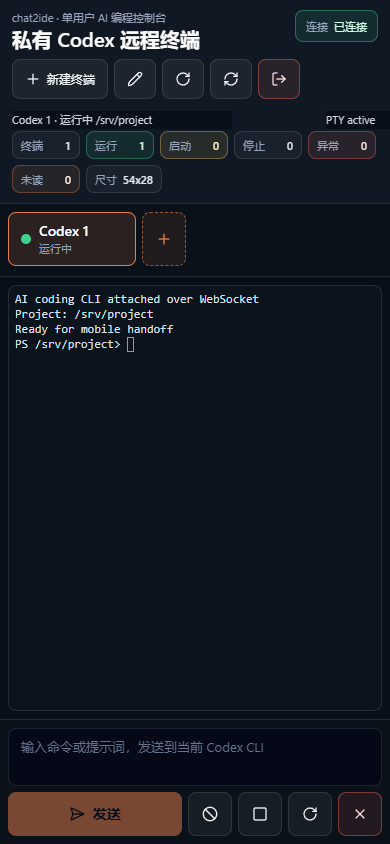
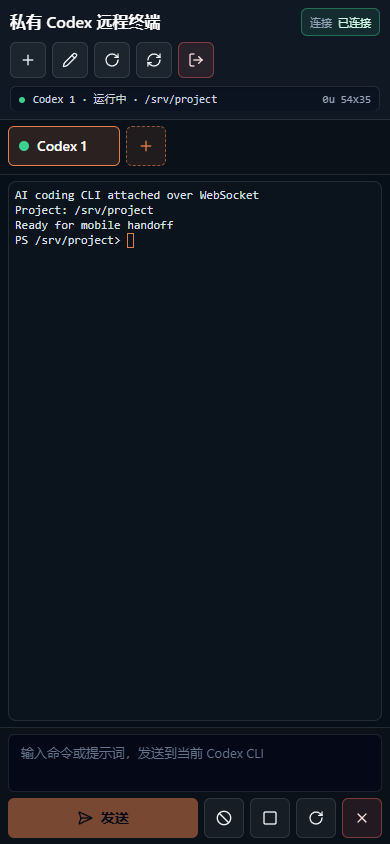
Simplify mobile UI and platform support docs

diff --git a/web/src/App.tsx b/web/src/App.tsx
@@ -526,14 +526,14 @@ export default function App() {
 
   return (
     <main className="app-shell flex h-[100dvh] flex-col overflow-hidden bg-[#071019] text-ink">
-      <header className="shrink-0 border-b border-white/10 bg-panel/95 px-3 py-2.5 backdrop-blur sm:px-4 sm:py-3">
-        <div className="flex flex-col gap-2 sm:gap-3">
-          <div className="flex items-start gap-2">
+      <header className="shrink-0 border-b border-white/10 bg-panel/95 px-2.5 py-2 backdrop-blur sm:px-4 sm:py-3">
+        <div className="flex flex-col gap-1.5 sm:gap-3">
+          <div className="flex items-center gap-2">
             <div className="min-w-0 flex-1">
-              <p className="text-[11px] leading-4 text-slate-400 sm:text-xs">
+              <p className="hidden text-[11px] leading-4 text-slate-400 sm:block sm:text-xs">
                 chat2ide · 单用户 AI 编程控制台
               </p>
-              <h1 className="truncate text-xl font-semibold leading-tight text-white sm:text-2xl">
+              <h1 className="truncate text-base font-semibold leading-tight text-white sm:text-2xl">
                 私有 Codex 远程终端
               </h1>
             </div>
@@ -578,6 +578,7 @@ export default function App() {
               icon={Plus}
               label="新建终端"
               disabled={busyAction}
+              hideLabelOnMobile
               onClick={handleCreateTerminal}
             />
             <ToolbarButton
@@ -611,7 +612,13 @@ export default function App() {
             />
           </div>
 
-          <div className="flex flex-col gap-1.5 lg:flex-row lg:items-center lg:justify-between">
+          <MobileSessionLine
+            activeTerminal={activeTerminal}
+            stats={terminalStats}
+            connectionState={connectionState}
+          />
+
+          <div className="hidden flex-col gap-1.5 sm:flex lg:flex-row lg:items-center lg:justify-between">
             <div className="flex min-w-0 items-center gap-2 text-[11px] leading-4 text-slate-400 sm:text-xs lg:flex-1">
               {activeTerminal ? (
                 <span className="shrink-0 text-slate-300 sm:hidden">
@@ -645,7 +652,7 @@ export default function App() {
         onSelect={handleSelectTerminal}
       />
 
-      <section className="flex min-h-0 flex-1 flex-col px-2 py-2 sm:px-3">
+      <section className="flex min-h-0 flex-1 flex-col px-2 py-1.5 sm:px-3 sm:py-2">
         <div className="flex min-h-0 flex-1 flex-col">
           {terminals.length === 0 ? (
             <div className="flex flex-1 items-center justify-center rounded-lg border border-dashed border-white/10 bg-[#0b131d] px-6 text-center text-sm leading-6 text-slate-400">
@@ -707,7 +714,7 @@ function StatusChip({
 
   return (
     <div
-      className={`inline-flex min-h-8 items-center gap-1.5 rounded-lg border px-2.5 py-1.5 text-[11px] leading-none ${toneClass}`}
+      className={`inline-flex min-h-7 items-center gap-1.5 rounded-md border px-2 py-1 text-[11px] leading-none sm:min-h-8 sm:rounded-lg sm:px-2.5 sm:py-1.5 ${toneClass}`}
     >
       <span className="text-slate-400">{label}</span>
       <span className="font-medium">{value}</span>
@@ -738,7 +745,7 @@ function ToolbarButton({
   return (
     <button
       aria-label={label}
-      className={`inline-flex min-h-10 shrink-0 items-center justify-center gap-1.5 rounded-lg border px-3 text-xs font-medium transition disabled:cursor-not-allowed disabled:opacity-50 sm:px-4 sm:text-sm ${toneClass}`}
+      className={`inline-flex min-h-9 min-w-9 shrink-0 items-center justify-center gap-1.5 rounded-md border px-2 text-xs font-medium transition disabled:cursor-not-allowed disabled:opacity-50 sm:min-h-10 sm:rounded-lg sm:px-4 sm:text-sm ${toneClass}`}
       disabled={disabled}
       title={label}
       type="button"
@@ -747,6 +754,41 @@ function ToolbarButton({
       <Icon aria-hidden className="h-4 w-4" />
       <span className={hideLabelOnMobile ? 'hidden sm:inline' : ''}>{label}</span>
     </button>
+  );
+}
+
+function MobileSessionLine({
+  activeTerminal,
+  connectionState,
+  stats,
+}: {
+  activeTerminal: TerminalSummary | null;
+  connectionState: string;
+  stats: TerminalWorkbenchStats;
+}) {
+  const stateDotClass =
+    connectionState === 'connected'
+      ? 'bg-success'
+      : connectionState === 'connecting'
+      ? 'bg-warning'
+      : connectionState === 'auth_error'
+      ? 'bg-danger'
+      : 'bg-slate-500';
+  const size = activeTerminal ? `${activeTerminal.cols}x${activeTerminal.rows}` : '-';
+
+  return (
+    <div className="flex min-w-0 items-center gap-2 rounded-md border border-white/10 bg-slate-950/45 px-2 py-1.5 font-mono text-[11px] leading-none text-slate-300 sm:hidden">
+      <span className={`h-1.5 w-1.5 shrink-0 rounded-full ${stateDotClass}`} />
+      <span className="min-w-0 flex-1 truncate">
+        {activeTerminal
+          ? `${activeTerminal.name} · ${formatTerminalStatus(activeTerminal.status)} · ${activeTerminal.cwd}`
+          : 'no terminal selected'}
+      </span>
+      <span className="shrink-0 tabular-nums">
+        {formatCompactCount(stats.unread)}u
+      </span>
+      <span className="shrink-0 text-slate-500">{size}</span>
+    </div>
   );
 }
 

diff --git a/web/src/components/ComposerBar.tsx b/web/src/components/ComposerBar.tsx
@@ -66,15 +66,15 @@ export function ComposerBar({
   };
 
   return (
-    <div className="border-t border-white/10 bg-panelAlt/95 px-2 pt-2 pb-[calc(0.5rem+env(safe-area-inset-bottom))] backdrop-blur sm:px-3">
+    <div className="border-t border-white/10 bg-panelAlt/95 px-2 pt-1.5 pb-[calc(0.375rem+env(safe-area-inset-bottom))] backdrop-blur sm:px-3 sm:pt-2 sm:pb-[calc(0.5rem+env(safe-area-inset-bottom))]">
       <form
-        className="grid grid-cols-[minmax(0,1fr)_repeat(4,2.75rem)] gap-1.5 md:grid-cols-[minmax(0,1fr)_8rem_repeat(4,6.5rem)] md:items-stretch md:gap-2"
+        className="grid grid-cols-[minmax(0,1fr)_repeat(4,2.5rem)] gap-1.5 md:grid-cols-[minmax(0,1fr)_8rem_repeat(4,6.5rem)] md:items-stretch md:gap-2"
         onSubmit={handleSubmit}
       >
         <textarea
           autoCapitalize="none"
           autoCorrect="off"
-          className="col-span-5 min-h-[3rem] max-h-[24dvh] w-full resize-none rounded-lg border border-white/10 bg-slate-950/80 px-3 py-2 text-[13px] leading-5 text-slate-100 outline-none transition placeholder:text-slate-500 focus:border-accent focus:ring-2 focus:ring-accent/30 disabled:opacity-50 md:col-span-1 md:min-h-12 md:px-4 md:py-3 md:text-sm md:leading-5"
+          className="col-span-5 min-h-10 max-h-[22dvh] w-full resize-none rounded-md border border-white/10 bg-slate-950/80 px-3 py-2 text-[13px] leading-5 text-slate-100 outline-none transition placeholder:text-slate-500 focus:border-accent focus:ring-2 focus:ring-accent/25 disabled:opacity-50 md:col-span-1 md:min-h-12 md:rounded-lg md:px-4 md:py-3 md:text-sm md:leading-5"
           disabled={!activeTerminal || busy}
           enterKeyHint="send"
           placeholder={
@@ -91,7 +91,7 @@ export function ComposerBar({
         />
 
         <button
-          className="inline-flex min-h-11 items-center justify-center gap-2 rounded-lg bg-accent px-3 text-sm font-semibold text-slate-950 transition disabled:cursor-not-allowed disabled:opacity-50 md:min-h-12 md:px-4"
+          className="inline-flex min-h-10 items-center justify-center gap-2 rounded-md bg-accent px-3 text-sm font-semibold text-slate-950 transition disabled:cursor-not-allowed disabled:opacity-50 md:min-h-12 md:rounded-lg md:px-4"
           disabled={!inputReady || !value.trim()}
           type="submit"
         >
@@ -149,7 +149,7 @@ function ControlButton({
   return (
     <button
       aria-label={label}
-      className={`inline-flex min-h-11 items-center justify-center rounded-lg border text-xs font-medium transition disabled:cursor-not-allowed disabled:opacity-50 md:min-h-12 md:gap-1.5 md:px-4 md:text-sm ${toneClass}`}
+      className={`inline-flex min-h-10 items-center justify-center rounded-md border text-xs font-medium transition disabled:cursor-not-allowed disabled:opacity-50 md:min-h-12 md:rounded-lg md:gap-1.5 md:px-4 md:text-sm ${toneClass}`}
       disabled={disabled}
       title={label}
       type="button"

diff --git a/web/src/components/TerminalTabs.tsx b/web/src/components/TerminalTabs.tsx
@@ -19,7 +19,7 @@ export function TerminalTabs({
   onSelect,
 }: TerminalTabsProps) {
   return (
-    <div className="shrink-0 border-b border-white/10 bg-panelAlt/80 px-2 py-2 sm:px-3">
+    <div className="shrink-0 border-b border-white/10 bg-panelAlt/80 px-2 py-1.5 sm:px-3 sm:py-2">
       <div className="flex gap-1.5 overflow-x-auto pb-0.5 [scrollbar-width:none] [-ms-overflow-style:none] sm:gap-2 sm:pb-1">
         {terminals.map((terminal) => {
           const active = terminal.id === activeTerminalId;
@@ -27,7 +27,7 @@ export function TerminalTabs({
             <button
               aria-selected={active}
               key={terminal.id}
-              className={`flex min-w-[8rem] max-w-[10.5rem] shrink-0 items-center gap-2 rounded-lg border px-3 py-2 text-left transition sm:min-w-[10rem] sm:gap-3 sm:px-4 ${
+              className={`flex min-h-10 min-w-[7rem] max-w-[9rem] shrink-0 items-center gap-2 rounded-md border px-2.5 py-1.5 text-left transition sm:min-h-12 sm:min-w-[10rem] sm:max-w-[10.5rem] sm:gap-3 sm:rounded-lg sm:px-4 sm:py-2 ${
                 active
                   ? 'border-accent bg-accent/15 text-white'
                   : 'border-white/10 bg-white/5 text-slate-300'
@@ -50,7 +50,7 @@ export function TerminalTabs({
                 <span className="block truncate text-sm font-medium sm:text-base">
                   {terminal.name}
                 </span>
-                <span className="block truncate text-[11px] leading-4 text-slate-400 sm:text-xs">
+                <span className="hidden truncate text-[11px] leading-4 text-slate-400 sm:block sm:text-xs">
                   {formatTerminalStatus(terminal.status)}
                 </span>
               </span>
@@ -65,7 +65,7 @@ export function TerminalTabs({
 
         <button
           aria-label="新建终端"
-          className="inline-flex min-w-11 shrink-0 items-center justify-center gap-1.5 rounded-lg border border-dashed border-accent/60 bg-accent/10 px-3 py-2 text-sm font-semibold text-accent transition hover:bg-accent/20 sm:px-4"
+          className="inline-flex min-h-10 min-w-10 shrink-0 items-center justify-center gap-1.5 rounded-md border border-dashed border-accent/60 bg-accent/10 px-2.5 py-1.5 text-sm font-semibold text-accent transition hover:bg-accent/20 sm:min-h-12 sm:min-w-11 sm:rounded-lg sm:px-4 sm:py-2"
           type="button"
           onClick={onCreate}
         >

diff --git a/README.en.md b/README.en.md
@@ -45,9 +45,12 @@ The default command is `codex`. To use Claude Code, Gemini CLI, Aider, or a cust
 | Platform | Direct `CODEX_COMMAND` target? | Recommended setup | Boundary |
 | --- | --- | --- | --- |
 | Codex CLI | Yes | `CODEX_COMMAND=codex` | Default target. Authenticate Codex on the server first. |
+| Claude Code | Yes | `CODEX_COMMAND=claude` | Install and sign in on the server first. |
+| Gemini CLI | Yes | `CODEX_COMMAND=gemini` | Install and sign in on the server first. |
 | Cursor Agent CLI | Yes | `CODEX_COMMAND=cursor-agent` | Uses Cursor's terminal agent. This does not control the Cursor editor GUI. |
 | Qoder CLI | Yes | `CODEX_COMMAND=qodercli` | Install and sign in to `qodercli` on the server. If you meant another `qcoder` tool, it works only if it is a terminal CLI. |
 | Trae Agent CLI | Yes, for open-source `trae-agent` | Run `trae-cli run "<task>"` inside a chat2ide shell, or wrap it as `CODEX_COMMAND` | Trae IDE is a GUI editor; use the CLI agent for PTY control. |
+| Aider / Goose / custom agents | Yes | Set `CODEX_COMMAND` to the binary or wrapper script | Works when the tool behaves like a terminal program. |
 | Windsurf | Not recommended as a direct PTY agent | Use Cascade inside Windsurf IDE; use chat2ide beside it for mobile shell, tests, git, and other CLI agents | Windsurf's core AI workflow is IDE-integrated, not a generic standalone PTY agent. |
 | Trae IDE | No GUI control | Use Trae IDE normally; use `trae-agent` or another terminal agent when mobile handoff is needed | `chat2ide` is not remote desktop and does not control IDE plugin state. |
 | GUI editors such as Cursor, Windsurf, Trae | Indirect pairing | Point the editor and `chat2ide` at the same machine, repo, git state, and test commands | Editor handles desktop interaction; `chat2ide` handles terminal streams. |
@@ -69,6 +72,20 @@ CODEX_CWD=/srv/your-project
 ```
 
 ```dotenv
+# Claude Code
+CODEX_COMMAND=claude
+CODEX_ARGS=[]
+CODEX_CWD=/srv/your-project
+```
+
+```dotenv
+# Gemini CLI
+CODEX_COMMAND=gemini
+CODEX_ARGS=[]
+CODEX_CWD=/srv/your-project
+```
+
+```dotenv
 # Qoder CLI
 CODEX_COMMAND=qodercli
 CODEX_ARGS=[]
@@ -83,12 +100,6 @@ CODEX_CWD=/srv/your-project
 ```
 
 If a platform only exposes a desktop GUI, browser workspace, or IDE plugin and has no public terminal CLI, do not set it directly as `CODEX_COMMAND`. Use `bash`/`powershell` as the command instead, then run tests, git, deployment scripts, or another real CLI agent from the mobile terminal.
-
-## Relationship to OpenAI's Mobile Codex Experience
-
-OpenAI's official mobile Codex experience runs inside ChatGPT mobile and connects through a secure relay to trusted machines where Codex has been configured. That is not part of this repository, and I have not found public evidence that the official mobile client is an open-source app.
-
-`chat2ide` follows the same product direction: the phone is the control surface, while code, credentials, AI coding CLIs, and PTY processes stay on a trusted server. The difference is that `chat2ide` is self-hosted, generic, and PTY-based rather than an OpenAI relay client.
 
 ## What It Is Not
 
@@ -311,7 +322,7 @@ HTTP API and WebSocket use the same origin. The WebSocket path is `/ws`. See [Cl
 6. Use `Ctrl+C` to interrupt, "Stop" to end the process, "Restart" to clear the view and start a new PTY, and "Close" to remove the tab.
 7. After refresh or a short disconnect, the page reattaches to the current terminal and replays recent output.
 
-On phones, use the bottom input bar first. Terminal tabs scroll horizontally; the top overview shows whether background terminals have unread output, errors, or sessions still starting.
+On phones, use the bottom input bar first. Terminal tabs scroll horizontally; the compact status line shows connection state, the active terminal, unread output, and terminal size.
 
 ## Mobile Check
 
@@ -329,7 +340,7 @@ npm run build
 $env:APP_PIN="123456"; $env:CODEX_COMMAND="powershell.exe"; $env:CODEX_ARGS='["-NoLogo"]'; $env:CODEX_CWD=$PWD; npm run start
 ```
 
-Open `http://127.0.0.1:3000`, check that the page has no horizontal scrolling, that the overview does not crowd out the terminal, that the terminal and bottom input are visible, and send one command to confirm output appears. Send a second command and use the arrow keys in single-line input to confirm the in-memory command history recalls it.
+Open `http://127.0.0.1:3000`, check that the page has no horizontal scrolling, that the status line does not crowd out the terminal, that the terminal and bottom input are visible, and send one command to confirm output appears. Send a second command and use the arrow keys in single-line input to confirm the in-memory command history recalls it.
 
 ## Operational Boundaries
 

diff --git a/docs/manual-test-plan.md b/docs/manual-test-plan.md
@@ -32,7 +32,7 @@
 1. 点击“新建终端”两次。
 2. 确认出现两个标签页。
 3. 确认每个标签页都有独立状态和 PID。
-4. 确认顶部概览显示正确的终端总数、运行/启动/停止/异常数量和当前尺寸。
+4. 桌面端确认顶部概览显示正确的终端总数、运行/启动/停止/异常数量和当前尺寸。
 5. 分别发送不同命令。
 6. 切换标签页，确认输出不互相污染。
 7. 在非活动标签产生输出后，确认标签未读数和顶部未读计数增加。
@@ -115,7 +115,7 @@
 
 1. 用手机浏览器打开页面。
 2. 登录。
-3. 确认顶部概览、标签页、终端区和底部输入栏都可见，页面本身没有横向滚动。
+3. 确认顶部紧凑状态栏、标签页、终端区和底部输入栏都可见，页面本身没有横向滚动。
 4. 横向滚动标签页。
 5. 使用底部输入栏发送命令。
 6. 用方向键回填单行历史命令。
@@ -125,7 +125,7 @@
 通过标准：
 
 - 底部输入栏可用。
-- 顶部概览不会挤压到终端不可用。
+- 顶部状态栏不会挤压到终端不可用。
 - 标签页可横向滚动。
 - 终端区域仍保留主要可视空间。
 - 控制按钮文字不溢出。

diff --git a/README.md b/README.md
@@ -133,11 +133,12 @@ sequenceDiagram
 | Tool | Direct `CODEX_COMMAND` target? | How to use it |
 | --- | --- | --- |
 | OpenAI Codex CLI | Yes | `CODEX_COMMAND=codex` |
+| Anthropic Claude Code | Yes | Install and sign in on the host, then use `CODEX_COMMAND=claude` |
+| Google Gemini CLI | Yes | Install and sign in on the host, then use `CODEX_COMMAND=gemini` |
 | Cursor Agent CLI | Yes | Install Cursor CLI on the host, authenticate it, then use `CODEX_COMMAND=cursor-agent` |
 | Qoder CLI | Yes | Install `qodercli`, sign in, then use `CODEX_COMMAND=qodercli` |
 | Trae Agent CLI | Yes, for `trae-agent` | Install ByteDance `trae-agent`; run `trae-cli` tasks from a chat2ide shell or wrap a task command |
+| Aider / Goose / custom agents | Yes | Set `CODEX_COMMAND` to the agent binary or wrapper script |
 | Windsurf | Not as a standalone PTY agent | Windsurf Cascade is IDE-integrated. Use chat2ide beside Windsurf on the same repo, not as a remote controller for the Windsurf GUI |
 | Trae IDE | Not as a GUI app | Use the open-source `trae-agent` CLI instead of trying to drive the Trae IDE UI |
 | qCoder / QCoder browser tools | Only if they expose a CLI you want to run | For Qoder, use `qodercli`; for qCoder quantum-workflow tooling, use its local `qcoder` commands as normal terminal tools |
-
-OpenAI's official mobile Codex experience is different: Codex is available inside the ChatGPT mobile app, connected through OpenAI's secure relay to trusted machines where Codex is running. `chat2ide` uses the same broad pattern--phone as control surface, server keeps files and credentials, terminal output streams back--but it is self-hosted, generic, and PTY-based rather than an official OpenAI relay client.

diff --git a/docs/product.md b/docs/product.md
@@ -32,7 +32,7 @@
 
 ### 从手机查看长任务
 
-手机端首屏保留连接状态、当前终端、工作台概览、终端输出和底部输入栏。常用操作包括发送、`Ctrl+C`、停止、重启、关闭和刷新输出。页面不需要横向滚动。
+手机端首屏保留连接状态、当前终端、紧凑状态栏、终端输出和底部输入栏。常用操作包括发送、`Ctrl+C`、停止、重启、关闭和刷新输出。页面不需要横向滚动。
 
 底部输入栏保存本次浏览器会话内最近 30 条已发送内容，方便从手机重复 `npm test`、`git status`、`codex` 提示词等短命令。历史只在内存中，不写入浏览器本地存储。
 
@@ -76,7 +76,7 @@
 - 能从公网 HTTPS 域名打开 PIN 登录页。
 - 登录后能创建多个 Codex CLI 终端。
 - 手机端能通过底部输入栏发送提示词或命令。
-- 多终端状态、后台未读输出和异常状态能在顶部概览中直接看到。
+- 桌面端能在顶部概览看到多终端状态、后台未读输出和异常状态；手机端能在紧凑状态栏看到当前终端、未读数和尺寸。
 - 单行输入能从本次会话历史中回填已发送命令。
 - 刷新页面后能恢复仍在内存中的终端并回放最近输出。
 - `/api/health` 正常返回。

diff --git a/docs/user-guide.md b/docs/user-guide.md
@@ -30,7 +30,7 @@
 
 切换标签页时，浏览器会重新附着目标终端并回放最近输出。为了避免多后台高速输出压垮前端，浏览器同一时刻只订阅当前活动标签页的实时输出。
 
-顶部概览会显示终端总数、运行/启动/停止/异常数量、后台未读输出和当前终端尺寸。关闭当前标签时，页面优先切到右侧相邻标签；如果右侧没有标签，则切到左侧标签。
+桌面端顶部概览会显示终端总数、运行/启动/停止/异常数量、后台未读输出和当前终端尺寸。手机端使用更紧凑的 session 状态栏，显示连接点、当前终端、未读数和终端尺寸。关闭当前标签时，页面优先切到右侧相邻标签；如果右侧没有标签，则切到左侧标签。
 
 ## 控制按钮
 
@@ -67,7 +67,7 @@
 ## 手机端建议
 
 - 使用底部输入栏输入，不依赖 xterm 原生键盘。
-- 用顶部概览先判断是否有后台未读输出、异常终端或仍在启动的会话。
+- 用顶部状态栏先判断连接状态、当前终端、未读数和终端尺寸。
 - 横向滚动标签页切换终端。
 - 弱网恢复后先点“重连”或刷新页面。
 - 常用短命令可以用方向键从本次会话历史里回填，敏感命令不会写入浏览器本地存储。